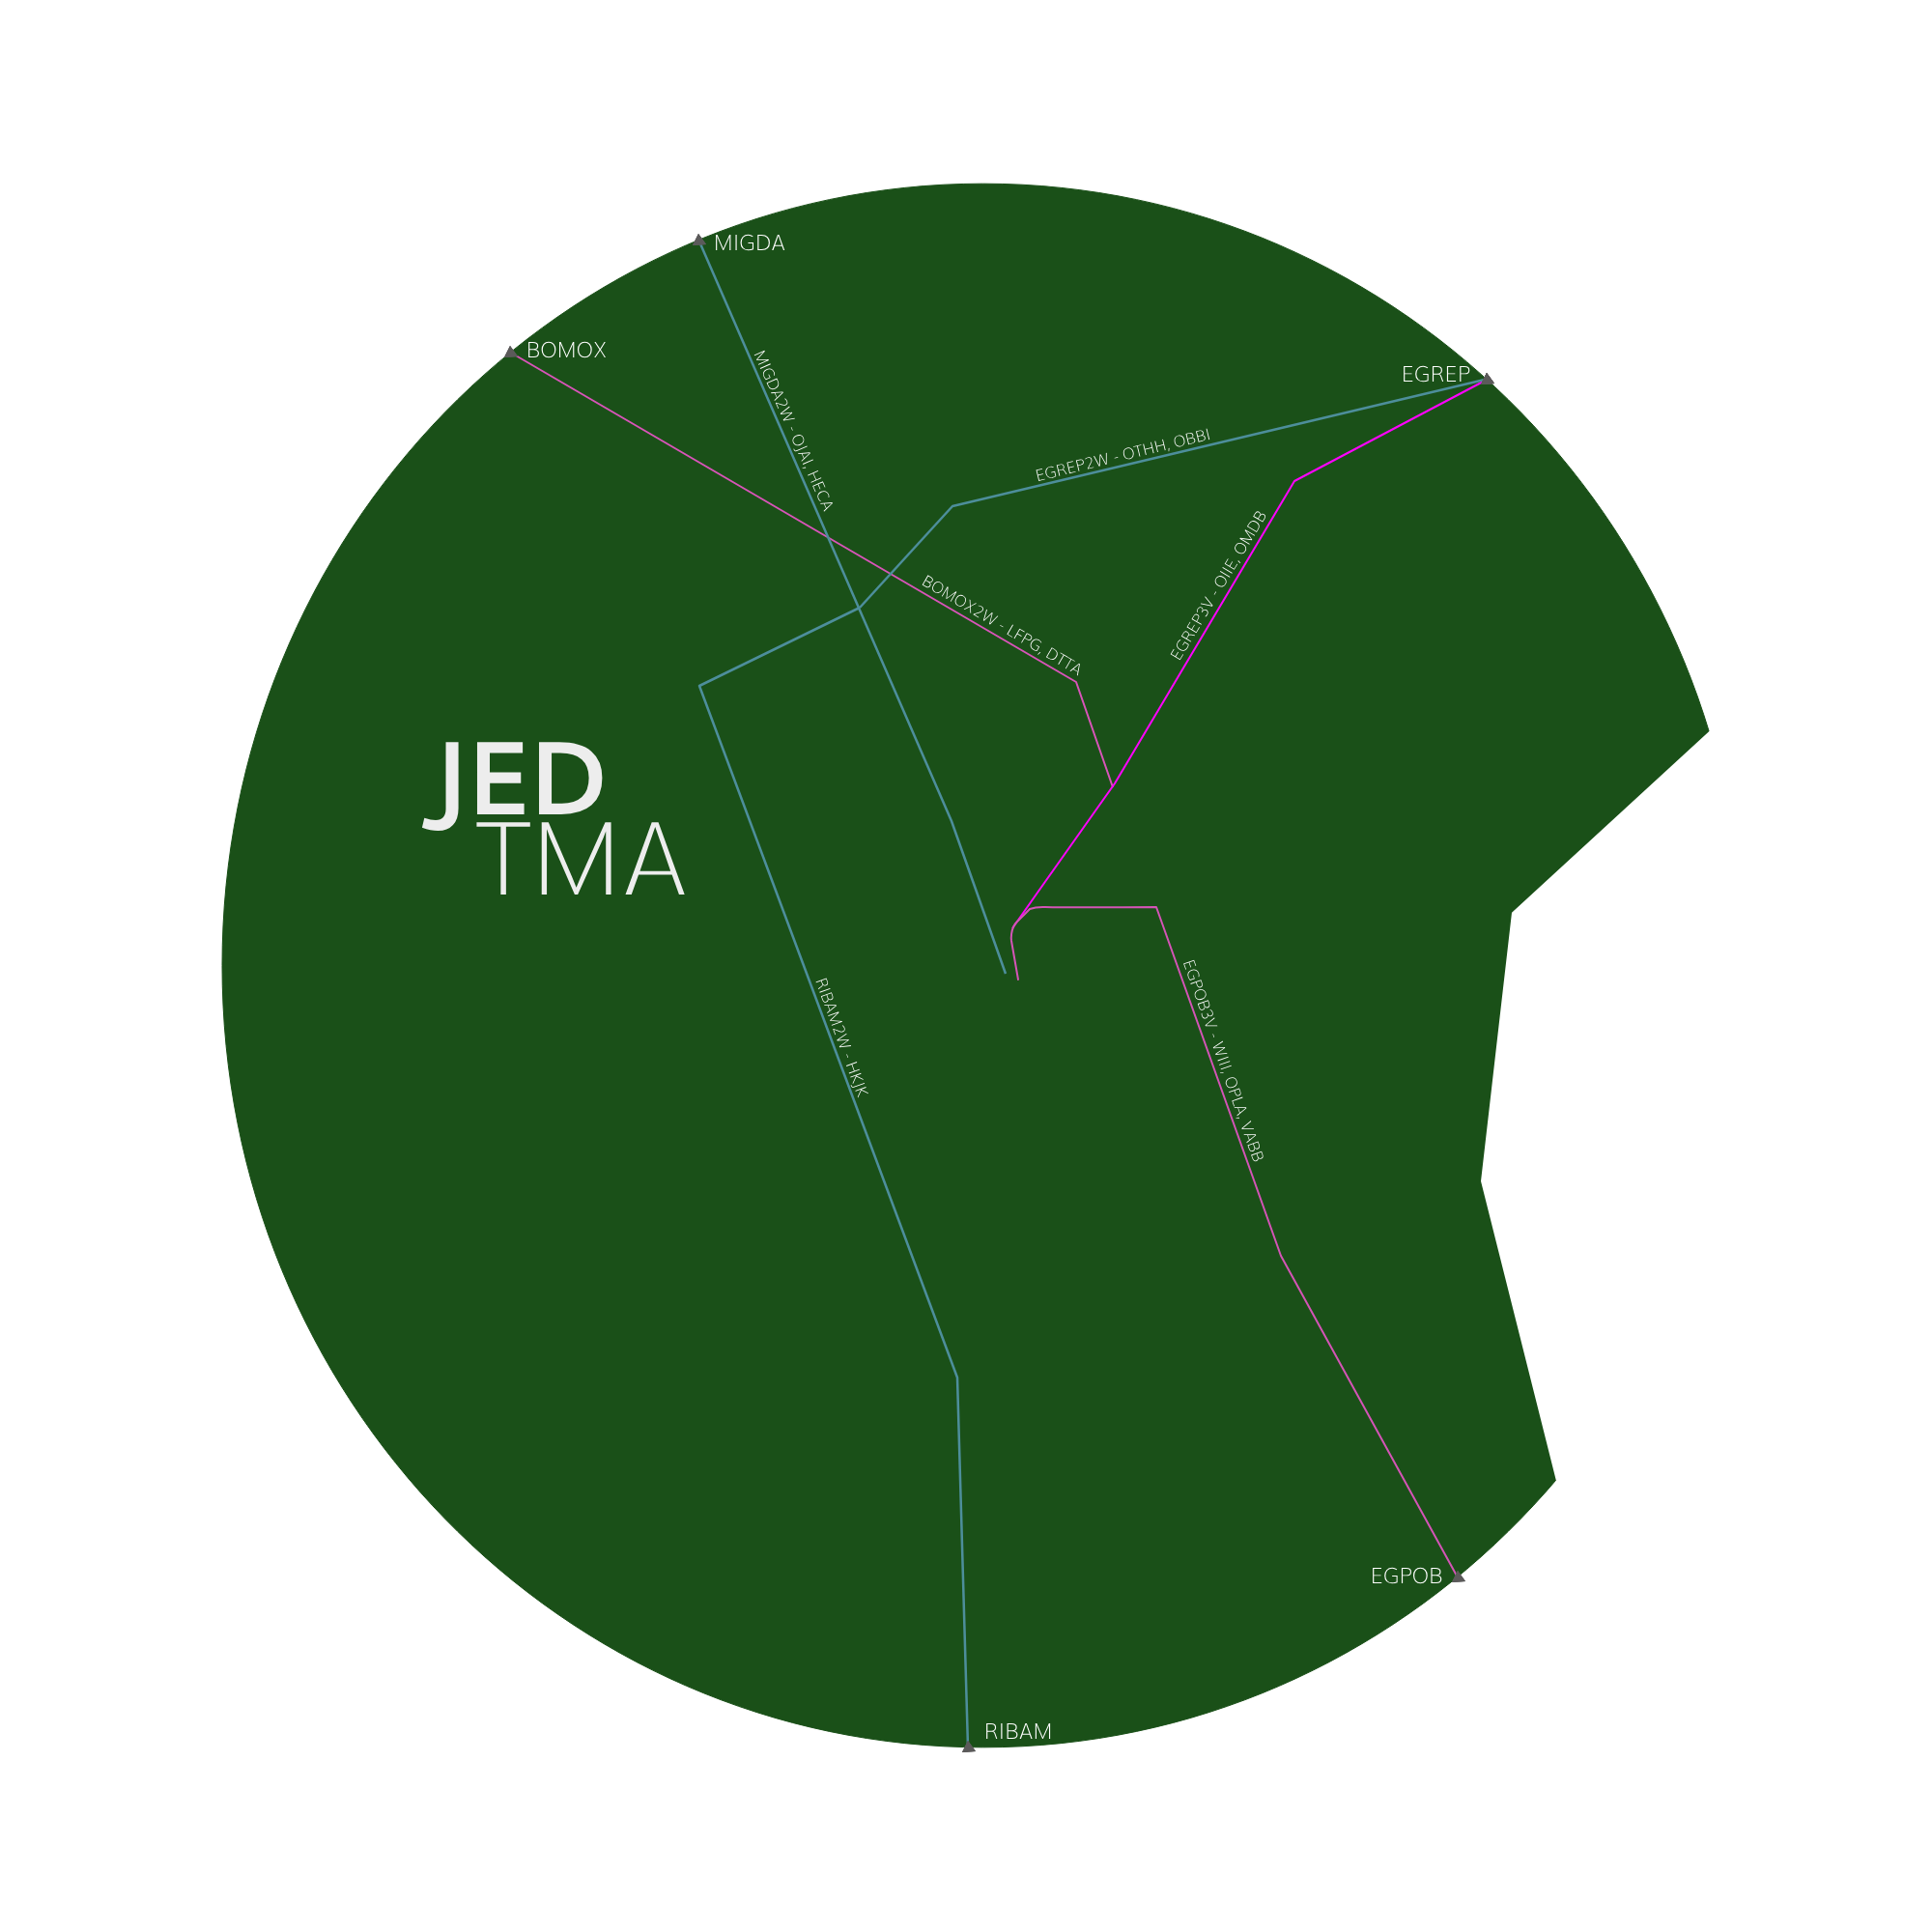
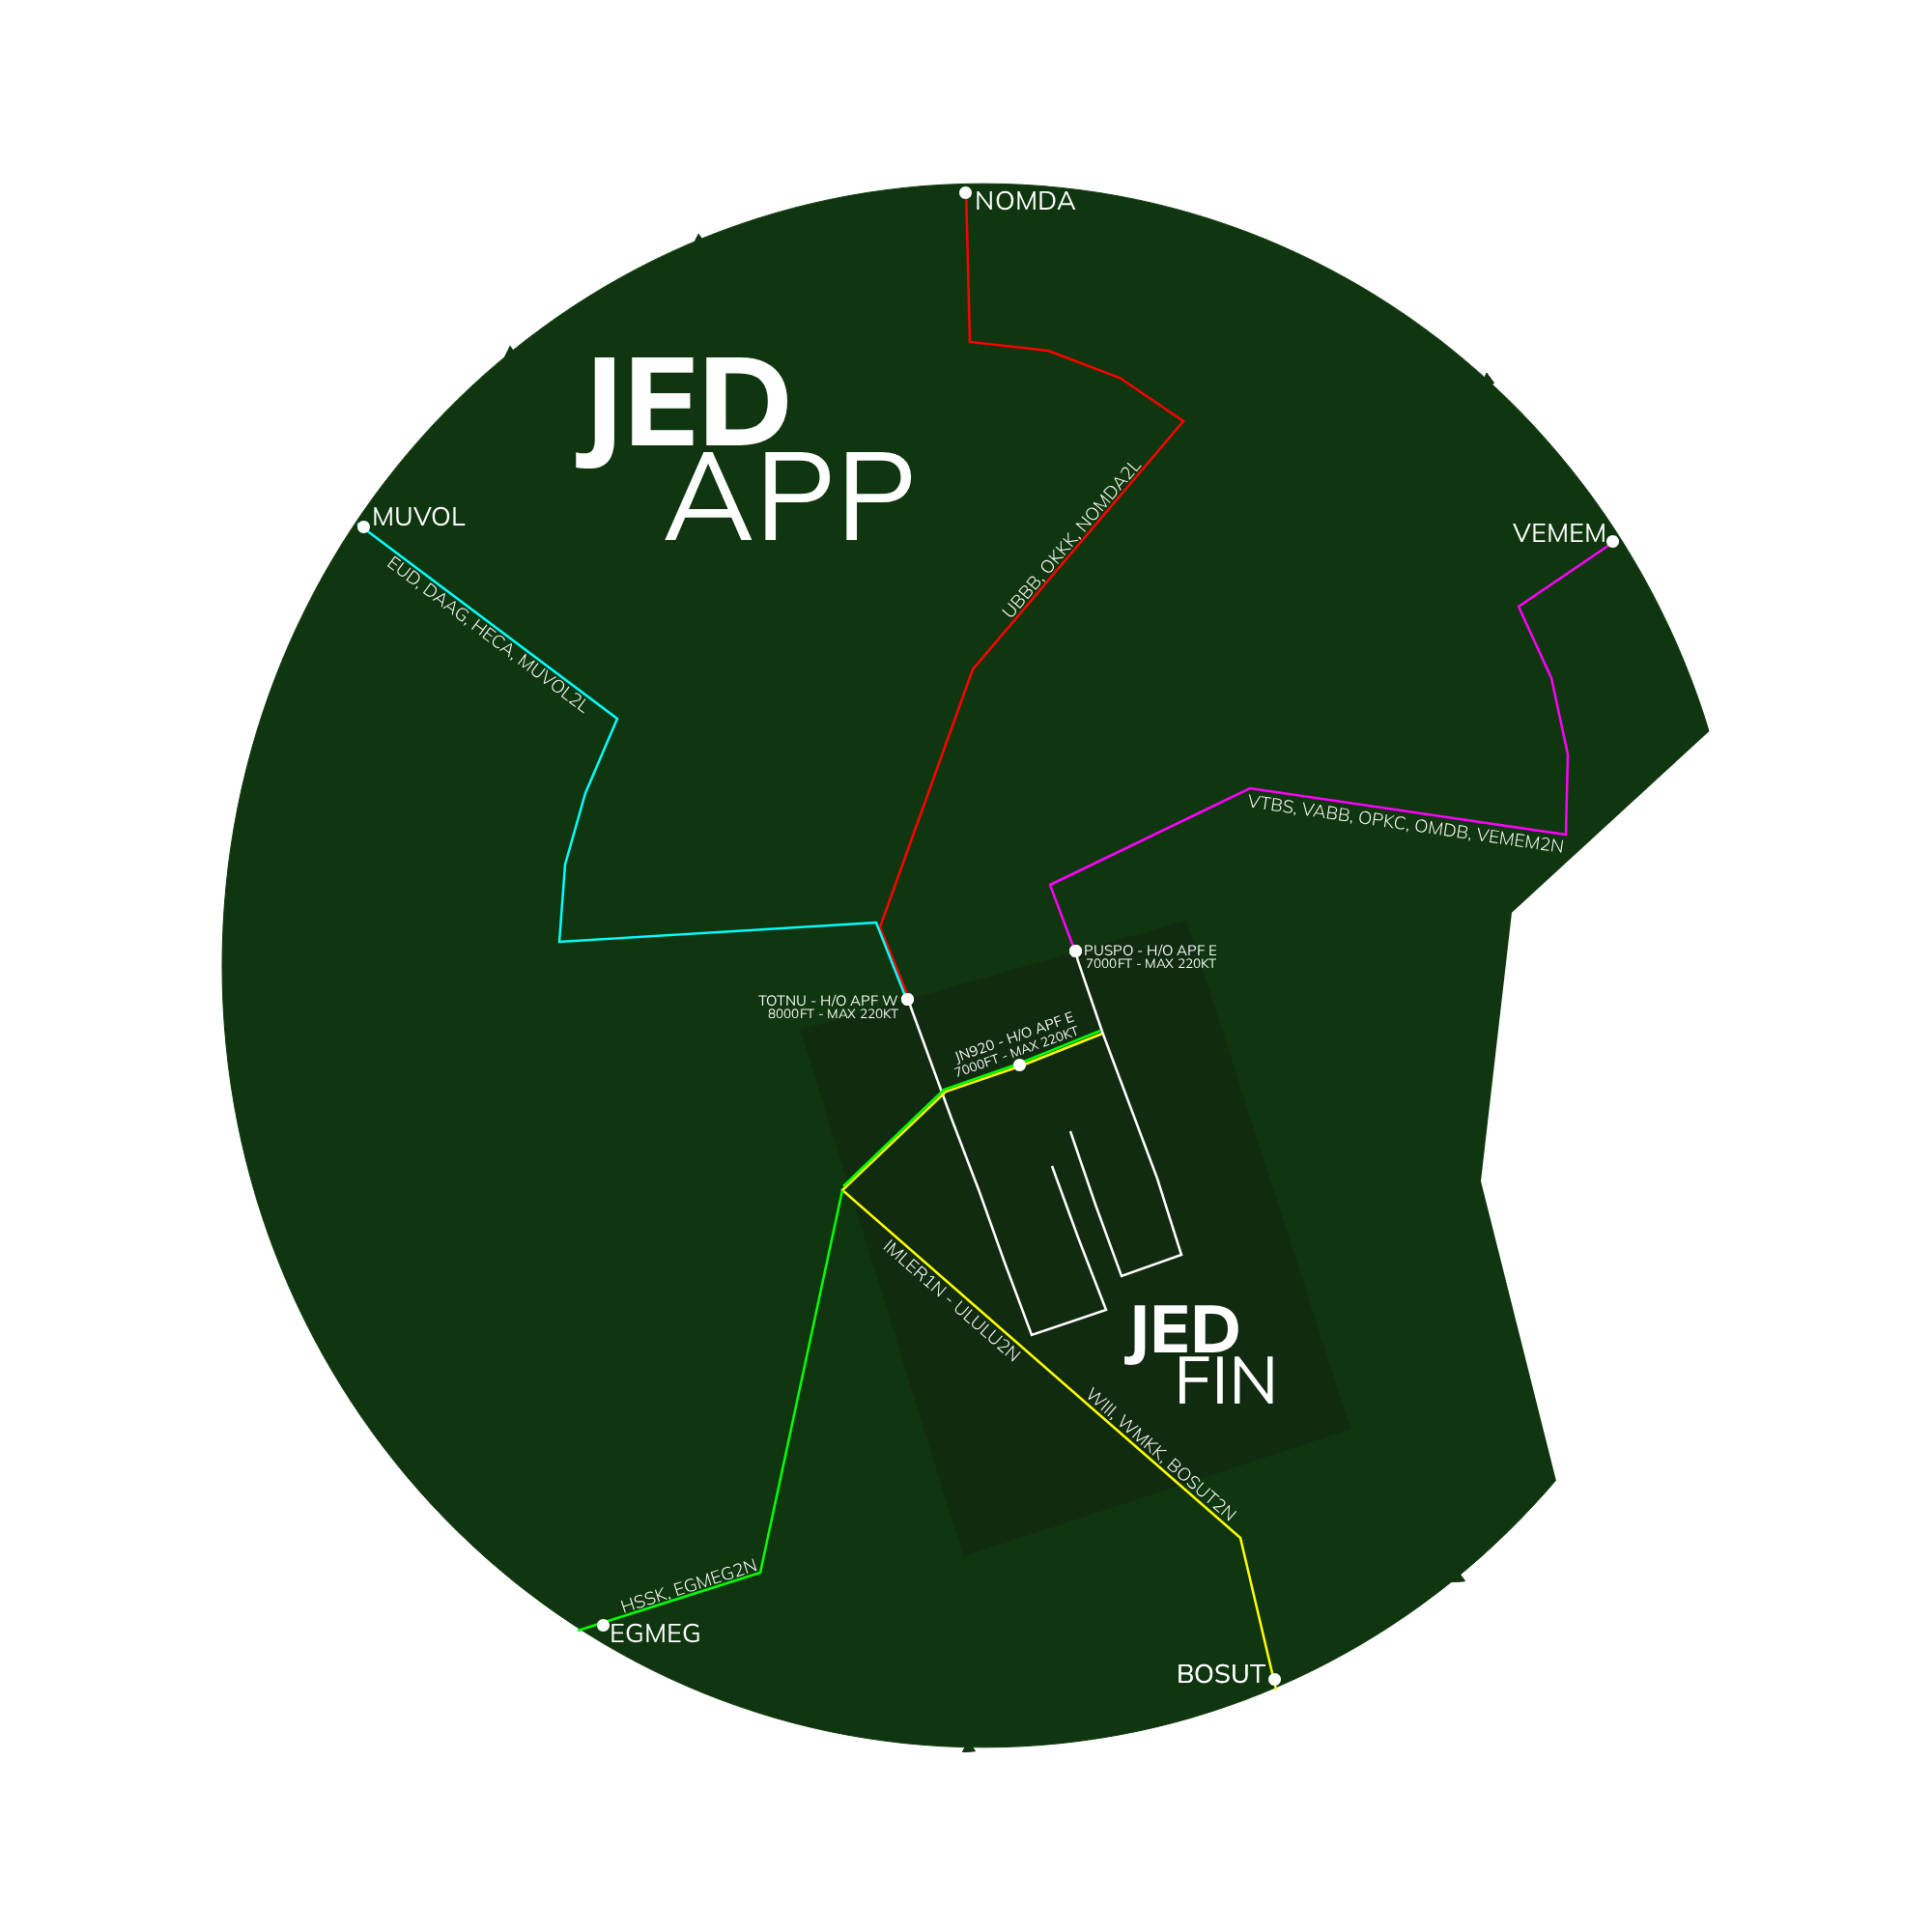
Merge pull request #11 from Pilot-Mishari/dev
Updated APP BREIFING

Pull request: Updated APP BREIFING
Added APPROACH FINAL EAST BRIEF
Added APRROACH FINAL WEST BRIEF
Amended APPROACH BRIEF

diff --git a/docs/Briefing(s)/Controller Briefing(s)/Jeddah Approach [APP]/APP FINAL E.md b/docs/Briefing(s)/Controller Briefing(s)/Jeddah Approach [APP]/APP FINAL E.md
@@ -1,0 +1,36 @@
+---
+title: "Jeddah Final East [APP FE]"
+---
+
+# OEJN_FE_APP [APP FE] Briefing Material | Hajj OPS: 2026
+
+!!! success "Covering"
+    This section details all the necessary briefing materials for **OEJN_FE_APP [APP FE]** during Hajj OPS: 2026
+
+## Designated Area of Responsibility 
+"*Jeddah Director East*" (OEJN_FE_APP) is in charge of all downwind Arrivals in the Jeddah East.
+
+![Loading](img/main.png)
+
+---
+
+## Notes
+### Arrival
+- 1500-6500ft = **Class C airspace**
+- **RWY34R** for arrivals.
+- There is a large restricted zone in the **East** of Jeddah TMA, *Makkah.*
+- Arrivals for **RWY34R** will be handed off the **Final East** at **PUSPO** passing **7000 ft**.
+- Aircraft must be given **4500** at the sequencing leg to avoid MRVA of **4200**.
+- For **ILS Y** (IAF ITOMA) descend to **3000ft** at ITOMA
+- Suggested Vectors: **250** (Base), **310** (Intercepting Vector)
+- Handoff to OEJN_E_TWR for **RWY34R**
+- REFER TO JEDDAH APP SOP FOR FURTHER
+
+!!! danger "DO NOTE"
+    **RWY34R** is generally considered the **HIGH** side, hence aircraft must be given the instruction to **descend 4000ft** whilst intercepting the localizer.
+
+---
+
+## Visual Representation
+
+![Loading](img/tma.png)

diff --git a/docs/Briefing(s)/Controller Briefing(s)/Jeddah Approach [APP]/APP FINAL W.md b/docs/Briefing(s)/Controller Briefing(s)/Jeddah Approach [APP]/APP FINAL W.md
@@ -1,0 +1,34 @@
+---
+title: "Jeddah Final WEST [APP FW]"
+---
+
+# OEJN_FW_APP [APP FW] Briefing Material | Hajj OPS: 2026
+
+!!! success "Covering"
+    This section details all the necessary briefing materials for **OEJN_FW_APP [APP FW]** during Hajj OPS: 2026
+
+## Designated Area of Responsibility 
+"*Jeddah Director West*" (OEJN_FW_APP) is in charge of all downwind Arrivals in the Jeddah West.
+
+![Loading](img/main.png)
+
+---
+
+## Notes
+### Arrival
+- 1500-6500ft = **Class C airspace**
+- **RWY34L** for arrivals.
+- Arrivals for **RWY34L** will be handed off the **Final West** at **TOTNU** passing **8000 ft**.
+- Aircraft must be given **4500** at the sequencing leg.
+- Generally **EVEN** profiles are preferred (8000,6000,3000)
+- Suggested Vectors: **070** (Base), **010** (Intercepting Vector)
+- Handoff to OEJN_W_TWR for **RWY34L**
+- REFER TO JEDDAH APP SOP FOR FURTHER
+!!! danger "DO NOTE"
+    **RWY34L** is generally considered the **LOW** side, hence aircraft must be **3000ft or below** whilst on base
+
+---
+
+## Visual Representation
+
+![Loading](img/tma.png)

diff --git a/docs/Briefing(s)/Controller Briefing(s)/Jeddah Tower [AIR]/AIR Center.md b/docs/Briefing(s)/Controller Briefing(s)/Jeddah Tower [AIR]/AIR Center.md
@@ -1,0 +1,22 @@
+---
+title: "Jeddah Tower Center [AIR C]"
+---
+
+# OEJN_C_TWR [AIR C] Briefing Material | Hajj OPS: 2026
+
+!!! success "Covering"
+    This section details all the necessary briefing materials for **OEJN_C_TWR [AIR C]** during Hajj OPS: 2026
+
+## Designated Area of Responsibility 
+"*Jeddah Tower*" (OEJN_C_TWR) is in charge of **runway 34C** departure operations.
+
+![Loading](img/smc.png)
+
+---
+
+## Notes
+
+### Departure
+- Departures shall be **immediately** handed off to "*Jeddah Approach*" (OEJN_APP) after **departure**.
+- Departures from **Apron B** will contact you at holding point H1.
+- Departures from **Aprons 1, 2, 3, 4, 5, 6, 7** will contact you **while taxing on H**, or **while taxiing on K**. 

diff --git a/docs/Briefing(s)/Controller Briefing(s)/Jeddah Approach [APP]/APP.md b/docs/Briefing(s)/Controller Briefing(s)/Jeddah Approach [APP]/APP.md
@@ -18,19 +18,22 @@ title: "Jeddah Approach [APP 1]"
 ### Arrival
 - GND-FL195 = **Class C airspace**
 - **RWY34L and 34R** for arrivals.
-- There is a large restricted zone in the **East** of Jeddah TMA, the *Kaaba.*
+- Arrivals from **BOSUT**, **VEMEM**, and **EMGEG** will expect **RWY34R**.
+- Arrivals from **NOMDA** and **MUVOL** will expect **RWY34L**.
+- There is a large restricted zone in the **East** of Jeddah TMA, *Makkah.*
 - Arrivals into Jeddah will be handed off to *Jeddah Approach* around **FL180-FL190**. They would have **already been cleared for their STAR** by *Jeddah Terminal*
 - In OEJN, there is a **PMS (Point Merge System)** which is utilized for efficient traffic management. 
 - Go around traffic must climb **4000ft on RWY heading**, and **vectors** back to the ILS for their runway.
 - **Arrival traffic** that are **unable** to follow **STARs** will expect **vectors**.
-- Hand arrival traffic to *Jeddah Tower* when **established on the ILS**. 
+- Hand traffic to **APP FINAL E** at **PUSPO** or **JN920**, **7000 ft**.
+- Hand traffic to **APP FINAL W** at **TOTNU**, **8000 ft**.
 - OEJN_E_TWR for **RWY34R**, OEJN_W_TWR for **RWY34L**.
 - REFER TO JEDDAH APP SOP FOR FURTHER
 
 ### Departure
 - **RWY34C and 34R** for departures.
 - There will be simultaneous independent departures from 34C and 34R.
-- There will be simultaneous departures to EGREP from 34R and 34C. Make sure lateral/vertical separation is met before handoff. No sequencing required. They will split to different destinations but still, 8nm or greater should be the goal.
+- There will be simultaneous departures from 34R and 34C. Make sure lateral/vertical separation is met before handoff. No sequencing required. 8nm or greater should be the goal.
 - Aircraft must be handed off to *Jeddah Terminal* (OEJN_1_CTR) at **FL200** or at their **exit point from Jeddah TMA**, whichever is earlier.
 
 ---

diff --git a/docs/Briefing(s)/Pilot Briefing(s)/Arrival Aerodromes/DAAG.md b/docs/Briefing(s)/Pilot Briefing(s)/Arrival Aerodromes/DAAG.md
@@ -1,0 +1,7 @@
+---
+title: "Houari Boumediene International [DAAG]"
+---
+!!! success "covering" 
+    This is the pilot briefing of **Houari Boumediene International Airport**. All pilots flying from Algiers shall familiarize themselves with this document prior to the flight.
+
+![Alt text](docs/Pilot%20Briefing%20DAAG.pdf){ type=application/pdf style="min-height:100vh;width:100%" }

diff --git a/docs/Briefing(s)/Pilot Briefing(s)/Arrival Aerodromes/HECA.md b/docs/Briefing(s)/Pilot Briefing(s)/Arrival Aerodromes/HECA.md
@@ -1,0 +1,7 @@
+---
+title: "Cairo [HECA]"
+---
+!!! success "covering" 
+    This is the pilot briefing of **Cairo International Airport**. All pilots flying from Cairo shall familiarize themselves with this document prior to the flight.
+
+![Alt text](docs/EGvACC_Briefing_HECA.pdf){ type=application/pdf style="min-height:100vh;width:100%" }

diff --git a/docs/Briefing(s)/Pilot Briefing(s)/Arrival Aerodromes/LEBL.md b/docs/Briefing(s)/Pilot Briefing(s)/Arrival Aerodromes/LEBL.md
@@ -1,0 +1,7 @@
+---
+title: "Barcelona El-Prat [LEBL]"
+---
+!!! success "covering" 
+    This is the pilot briefing of **Barcelona El Prat Airport**. All pilots flying from Brcelona shall familiarize themselves with this document prior to the flight.
+
+![Alt text](docs/LEBL_HajjOPS.pdf){ type=application/pdf style="min-height:100vh;width:100%" }

diff --git a/docs/Briefing(s)/Pilot Briefing(s)/Arrival Aerodromes/LGAV.md b/docs/Briefing(s)/Pilot Briefing(s)/Arrival Aerodromes/LGAV.md
@@ -1,0 +1,7 @@
+---
+title: "Athens International Airport Eleftherios Venizelos [LGAV]"
+---
+!!! success "covering" 
+    This is the pilot briefing of **Athens International Airport Eleftherios Venizelos**. All pilots flying from Athens shall familiarize themselves with this document prior to the flight.
+
+[Athens International Airport Eleftherios Venizelos Brief](https://briefing.hvacc.org/airports/LGAV)

diff --git a/docs/Briefing(s)/Pilot Briefing(s)/Arrival Aerodromes/OKKK.md b/docs/Briefing(s)/Pilot Briefing(s)/Arrival Aerodromes/OKKK.md
@@ -1,0 +1,7 @@
+---
+title: "Kuwait International [OKKK]"
+---
+!!! success "covering" 
+    This is the pilot briefing of **Kuwait International Airport**. All pilots flying from Kuwait shall familiarize themselves with this document prior to the flight.
+
+![Alt text](docs/Departing%20Kuwait%20Intl.%20-%20Documentation%20Site%20-%20Khaleej%20vACC.pdf){ type=application/pdf style="min-height:100vh;width:100%" }

diff --git a/docs/Briefing(s)/Pilot Briefing(s)/Arrival Aerodromes/OMDB.md b/docs/Briefing(s)/Pilot Briefing(s)/Arrival Aerodromes/OMDB.md
@@ -1,0 +1,7 @@
+---
+title: "Dubai International [OMDB]"
+---
+!!! success "covering" 
+    This is the pilot briefing of **Dubai International Airport**. All pilots flying from Dubai shall familiarize themselves with this document prior to the flight.
+
+![Alt text](docs/Departing%20Traffic%20-%20Arabian%20vACC%20-%20Library.pdf){ type=application/pdf style="min-height:100vh;width:100%" }

diff --git a/docs/Briefing(s)/Pilot Briefing(s)/Arrival Aerodromes/OPKC.md b/docs/Briefing(s)/Pilot Briefing(s)/Arrival Aerodromes/OPKC.md
@@ -1,0 +1,7 @@
+---
+title: "Jinnah International Airport [OPKC]"
+---
+!!! success "covering" 
+    This is the pilot briefing of **Jinnah International Airport**. All pilots flying from Karachi shall familiarize themselves with this document prior to the flight.
+
+![Alt text](docs/Karachi%20_%20OPKC%20-%20VATSIM%20Pakistan%20Library.pdf){ type=application/pdf style="min-height:100vh;width:100%" }

diff --git a/docs/Briefing(s)/Pilot Briefing(s)/Arrival Aerodromes/VABB.md b/docs/Briefing(s)/Pilot Briefing(s)/Arrival Aerodromes/VABB.md
@@ -1,0 +1,7 @@
+---
+title: "Chhatrapati Shivaji Maharaj International Airport [VABB]"
+---
+!!! success "covering" 
+    This is the pilot briefing of **Chhatrapati Shivaji Maharaj International Airport**. All pilots flying from Mumbai shall familiarize themselves with this document prior to the flight.
+
+[Chhatrapati Shivaji Maharaj International Airport Brief](https://aim-india.aai.aero/aip-supplements)